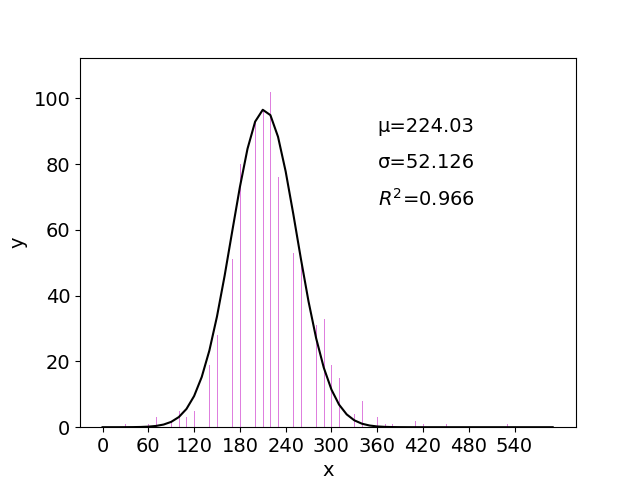
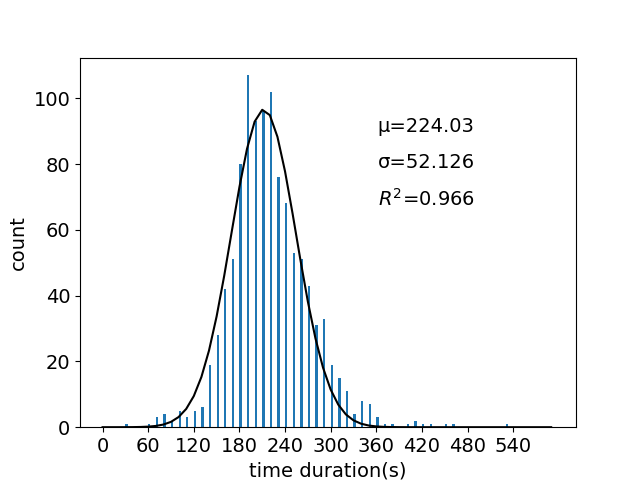
update

Changed region(s): [[0.25, 0.2188, 0.8438, 0.9375], [0.375, 0.9688, 0.6562, 1.0], [0.0, 0.4688, 0.0625, 0.5625]]

diff --git a/fitting.py b/fitting.py
@@ -49,13 +49,13 @@ class Gaussian_Fitting:
   def plot(self):
     plt.rcParams['font.size'] = 14
     _, ax = plt.subplots()
-    ax.bar(self.X,self.Y,width=100/100,alpha=0.5,color='m',align='edge')
+    ax.bar(self.X,self.Y,width=3,align='edge')
     ax.plot(self.X,self.fitting,'k')
     ax.annotate("μ="+str(np.round(self.mean,3)), xy=(0.6, 0.8), xycoords='axes fraction')
     ax.annotate("σ="+str(np.round(self.stdev,3)), xy=(0.6, 0.7), xycoords='axes fraction')
     ax.annotate("$R^2$="+str(np.round(self.r_squared,3)), xy=(0.6, 0.6), xycoords='axes fraction')
-    ax.set_xlabel('x')
-    ax.set_ylabel('y')
+    ax.set_xlabel('time duration(s)')
+    ax.set_ylabel('count')
     ax.set_xticks(np.arange(0, 540 + 1, 60))
     plt.savefig('graph.png')
 
